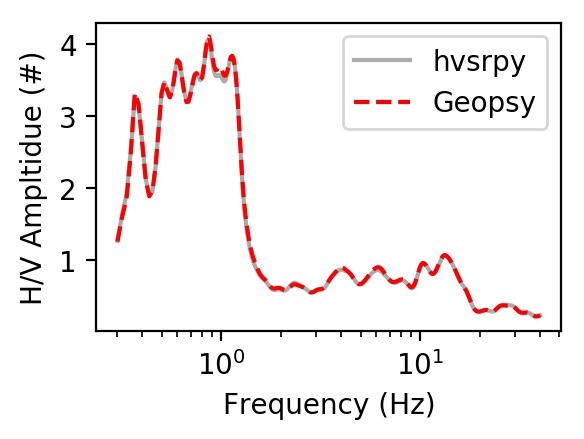
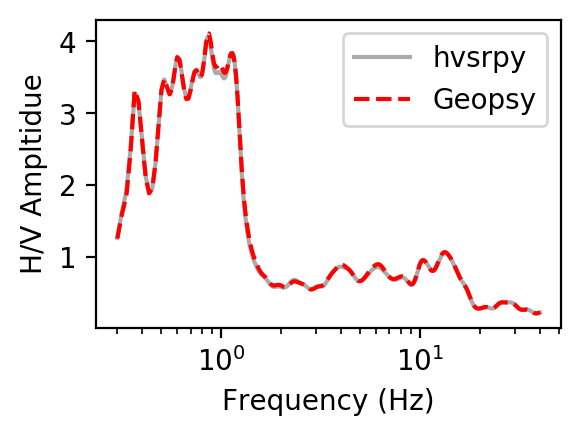
:books: Change y-label on comparison figures

Changed region(s): [[0.031, 0.0298, 0.9914, 0.8647], [0.3718, 0.8945, 0.7435, 0.9541]]

diff --git a/test/int_multiwindow.py b/test/int_multiwindow.py
@@ -78,7 +78,7 @@ for fname, fname_geopsy in zip(timerecords, known_solutions):
     ax.plot(geopsy_hv.frq, geopsy_hv["min"], color='r', linestyle=':', label='')
     ax.plot(geopsy_hv.frq, geopsy_hv["max"], color='r', linestyle=':', label='')
     ax.set_xlabel("Frequency (Hz)")
-    ax.set_ylabel("H/V Ampltidue (#)")
+    ax.set_ylabel("H/V Ampltidue")
     ax.set_xscale('log')
     ax.legend()
     plt.savefig(full_path+f"../figs/multiwindow_{fname_geopsy[-13:-3]}.png", dpi=200, bbox_inches='tight')

diff --git a/test/int_singlewindow.py b/test/int_singlewindow.py
@@ -99,7 +99,7 @@ for setting, fname, fname_geopsy in zip(settings, timerecords, known_solutions):
     ax.plot(geopsy_hv.frq, geopsy_hv["avg"], color='r', linestyle="--", label="Geopsy")
 
     ax.set_xlabel("Frequency (Hz)")
-    ax.set_ylabel("H/V Ampltidue (#)")
+    ax.set_ylabel("H/V Ampltidue")
     ax.set_xscale('log')
     ax.legend()
     plt.savefig(full_path+f"../figs/singlewindow_{fname_geopsy[-4]}.png", dpi=200, bbox_inches='tight')
